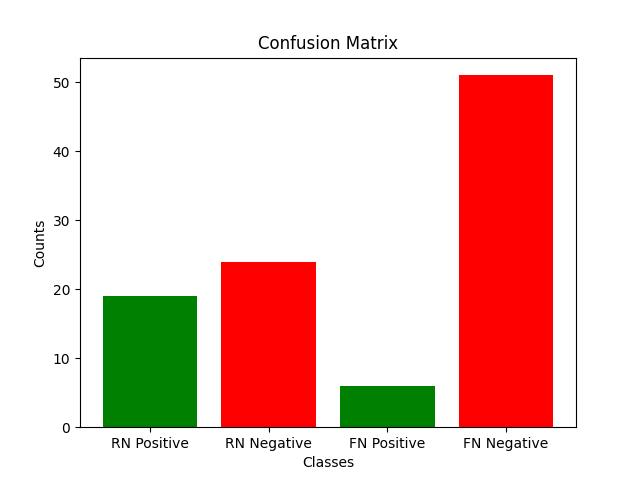
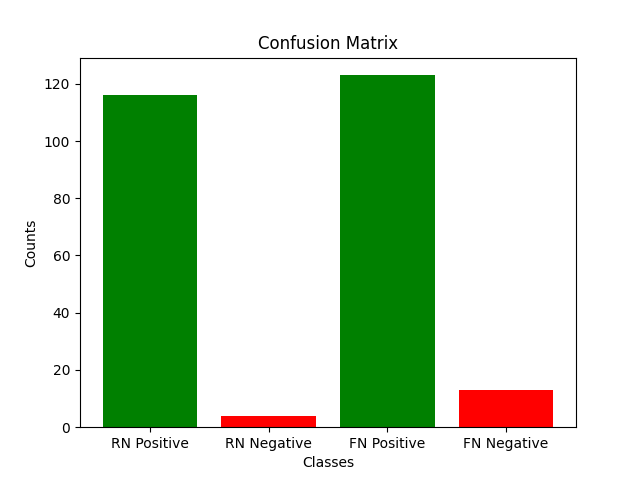
Add files via upload

diff --git a/src/BERTClassifier.py b/src/BERTClassifier.py
@@ -1,0 +1,153 @@
+import pandas as pd
+import numpy as np
+import pickle
+import os
+
+from sklearn.model_selection import train_test_split
+from torch.nn import DataParallel
+
+from Plotter import Plotter
+from transformers import BertTokenizer
+from transformers import BertForSequenceClassification
+from torch.optim import AdamW
+import torch
+from sklearn.metrics import accuracy_score, confusion_matrix
+import time
+
+
+class BERTClassifier:
+    def __init__(self, data_path, serialized_path, plot_path, train_size, test_size):
+        self.DATA_PATH = data_path
+        self.SERIALIZED_PATH = serialized_path
+        self.PLOT_PATH = plot_path
+
+        if os.path.exists(self.SERIALIZED_PATH):
+            print("Loading processed data...")
+            with open(self.SERIALIZED_PATH, 'rb') as f:
+                (self.X_train, self.X_train_attention_mask, self.y_train,
+                 self.X_test, self.X_test_attention_mask, self.y_test) = pickle.load(f)
+        else:
+            self._load_and_process_data()
+
+        self.X_train = self.X_train[:train_size]
+        self.X_train_attention_mask = self.X_train_attention_mask[:train_size]
+        self.y_train = self.y_train[:train_size]
+
+        self.X_test = self.X_test[:test_size]
+        self.X_test_attention_mask = self.X_test_attention_mask[:test_size]
+        self.y_test = self.y_test[:test_size]
+
+        self.model = BertForSequenceClassification.from_pretrained('bert-base-uncased', num_labels=2)
+        self.optimizer = AdamW(self.model.parameters(), lr=2e-5, eps=1e-8)
+        self.loss_history = []
+
+    def _load_and_process_data(self):
+        data = pd.read_csv(self.DATA_PATH)
+        tokenizer = BertTokenizer.from_pretrained('bert-base-uncased')
+
+        def preprocess_text(title, text):
+            combined_text = title if pd.isnull(text) else text if pd.isnull(title) else title + " " + text
+            tokens = tokenizer.encode_plus(combined_text,
+                                           max_length=512,
+                                           padding='max_length',
+                                           truncation=True,
+                                           add_special_tokens=True,
+                                           return_attention_mask=True,
+                                           return_token_type_ids=False,
+                                           return_tensors='pt')
+            return tokens['input_ids'], tokens['attention_mask']
+
+        train_data, test_data = train_test_split(data, test_size=0.2, random_state=42)
+
+        self.X_train = np.vstack(train_data.apply(lambda row: preprocess_text(row['title'], row['text'])[0], axis=1))
+        self.X_train_attention_mask = np.vstack(
+            train_data.apply(lambda row: preprocess_text(row['title'], row['text'])[1], axis=1))
+        self.y_train = train_data['label'].values
+
+        self.X_test = np.vstack(test_data.apply(lambda row: preprocess_text(row['title'], row['text'])[0], axis=1))
+        self.X_test_attention_mask = np.vstack(
+            test_data.apply(lambda row: preprocess_text(row['title'], row['text'])[1], axis=1))
+        self.y_test = test_data['label'].values
+
+        with open(self.SERIALIZED_PATH, 'wb') as f:
+            pickle.dump((self.X_train, self.X_train_attention_mask, self.y_train,
+                         self.X_test, self.X_test_attention_mask, self.y_test), f)
+
+        print("Shape of X_train:", self.X_train.shape)
+        print("Shape of X_test:", self.X_test.shape)
+        print("Shape of y_train:", self.y_train.shape)
+        print("Shape of y_test:", self.y_test.shape)
+
+    def train(self, num_epochs=3, batch_size=32):
+
+        device = torch.device('cuda' if torch.cuda.is_available() else 'cpu')
+        if torch.cuda.device_count() > 1:
+            print("Let's use", torch.cuda.device_count(), "GPUs!")
+            self.model = DataParallel(self.model)
+
+        self.model.to(device)
+        self.model.train()
+
+        start_time = time.time()
+
+        for epoch in range(num_epochs):
+            print(f"Epoch {epoch + 1}/{num_epochs}")
+            epoch_loss = 0  # add this line to calculate epoch loss
+            for batch in range(0, len(self.X_train), batch_size):
+                inputs = {
+                    'input_ids': torch.tensor(self.X_train[batch:batch + batch_size]).to(device),
+                    'attention_mask': torch.tensor(self.X_train_attention_mask[batch:batch + batch_size]).to(device),
+                    'labels': torch.tensor(self.y_train[batch:batch + batch_size]).to(device)
+                }
+
+                self.optimizer.zero_grad()
+                outputs = self.model(**inputs)
+                loss = outputs.loss
+                epoch_loss += loss.item()
+                loss.backward()
+                self.optimizer.step()
+
+                print(f"  Batch {batch // batch_size + 1}/{len(self.X_train) // batch_size}: Loss: {loss.item()}")
+
+            self.loss_history.append(epoch_loss)
+
+        end_time = time.time()
+        training_time = end_time - start_time
+        print(f"[BERT] Training time: {training_time} seconds")
+
+        Plotter.plot_loss(self.loss_history, self.PLOT_PATH + "_loss")
+
+    def evaluate(self, batch_size=32):
+        device = torch.device('cuda' if torch.cuda.is_available() else 'cpu')
+        self.model.eval()
+        eval_loss = 0
+        predictions = []
+
+        start_time = time.time()
+
+        with torch.no_grad():
+            for batch in range(0, len(self.X_test), batch_size):
+                inputs = {
+                    'input_ids': torch.tensor(self.X_test[batch:batch + batch_size]).to(device),
+                    'attention_mask': torch.tensor(self.X_test_attention_mask[batch:batch + batch_size]).to(device),
+                    'labels': torch.tensor(self.y_test[batch:batch + batch_size]).to(device)
+                }
+                outputs = self.model(**inputs)
+                logits = outputs.logits
+                eval_loss += outputs.loss.item()
+
+                predictions.extend(torch.argmax(logits, axis=1).cpu().numpy())
+
+        end_time = time.time()
+        classifying_time = end_time - start_time
+        print(f"[BERT] Classifying time: {classifying_time} seconds")
+
+        eval_accuracy = accuracy_score(self.y_test, predictions)
+        print("[BERT] Accuracy:", eval_accuracy)
+
+        matrix = confusion_matrix(self.y_test, predictions)
+        print(matrix)
+
+        Plotter.show_confusion_matrix(matrix, self.PLOT_PATH)
+
+

diff --git a/src/main.py b/src/main.py
@@ -1,16 +1,11 @@
-from collections import Counter
-
-from sklearn.model_selection import train_test_split
-
 from src.OwnNaiveBayesClassifier import OwnNaiveBayesClassifier
-from src.DataManager import DataManager
 from Plotter import Plotter
 import time
 from sklearn.metrics import accuracy_score
 from sklearn.metrics import confusion_matrix
 from sklearn.naive_bayes import MultinomialNB
 from sklearn.feature_extraction.text import CountVectorizer
-from BertClassifier import BERTClassifier
+from BERTClassifier import BERTClassifier
 
 TEST_DATA_PATH = "../data/fake_or_real_news.csv"
 SERIALIZED_TEST_DATA_PATH = "../serialized/test_own_bayes.pkl"
@@ -21,23 +16,25 @@ SERIALIZED_TRAIN_DATA_PATH = "../serialized/train_own_bayes.pkl"
 OWN_BAYES_PLOT_PATH = "../plots/own_bayes.png"
 SKLEARN_PLOT_PATH = "../plots/sklearn.png"
 
-
 # Load test data
 #x_test, y_test = DataManager.load_or_preprocess_data(SERIALIZED_TEST_DATA_PATH, TEST_DATA_PATH, "text",
 # "title", "label")
 #y_test = [1 if label == 'REAL' else 0 for label in y_test]
 
 # Load train data
-x, y = DataManager.load_or_preprocess_data(SERIALIZED_TRAIN_DATA_PATH, TRAIN_DATA_PATH, "text",
-                                           "title", "label")
+#x, y = DataManager.load_or_preprocess_data(SERIALIZED_TRAIN_DATA_PATH, TRAIN_DATA_PATH, "text",
+                                          # "title", "label")
 
-x_train, x_test, y_train, y_test = train_test_split(x, y, test_size=0.2, random_state=42)
+#x_train, x_test, y_train, y_test = train_test_split(x, y, test_size=0.2, random_state=42)
+
 
 def bert_classifier() -> None:
-    classifier = BERTClassifier("../data/WELFake_Dataset.csv", "../data/fake_or_real_news.csv",
-                                "../serialized/bert_data.pkl", "../plots/bert.png")
-    classifier.train()
-    classifier.evaluate()
+    classifier = BERTClassifier("../data/WELFake_Dataset.csv",
+                                "../serialized/bert_data.pkl", "../plots/bert.png",
+                                256, 256)
+    classifier.train(num_epochs=3, batch_size=8)
+    classifier.evaluate(batch_size=8)
+
 
 def own_bayes_classifier() -> None:
     # Initialize classifier
@@ -102,9 +99,9 @@ def sklearn_bayes_classifier():
 
 
 def main() -> None:
-    own_bayes_classifier()
-    sklearn_bayes_classifier()
-    #bert_classifier()
+    #own_bayes_classifier()
+    #sklearn_bayes_classifier()
+    bert_classifier()
 
 
 if __name__ == '__main__':

diff --git a/src/Plotter.py b/src/Plotter.py
@@ -5,6 +5,18 @@ class Plotter:
         pass
 
     @staticmethod
+    def plot_loss(loss_history, plot_path):
+        plt.figure(figsize=(10, 5))
+        plt.plot(loss_history, label='Training Loss')
+        plt.title('Training Loss Over Epochs')
+        plt.xlabel('Epoch')
+        plt.ylabel('Loss')
+        plt.legend()
+        plt.grid(True)
+        plt.savefig(plot_path)
+        plt.show()
+
+    @staticmethod
     def show_confusion_matrix(confusion_matrix: list[list[int]], file_path: str = None) -> None:
         labels = ['RN Positive', 'RN Negative', 'FN Positive', 'FN Negative']
         values = [confusion_matrix[0][0], confusion_matrix[0][1], confusion_matrix[1][1], confusion_matrix[1][0]]
